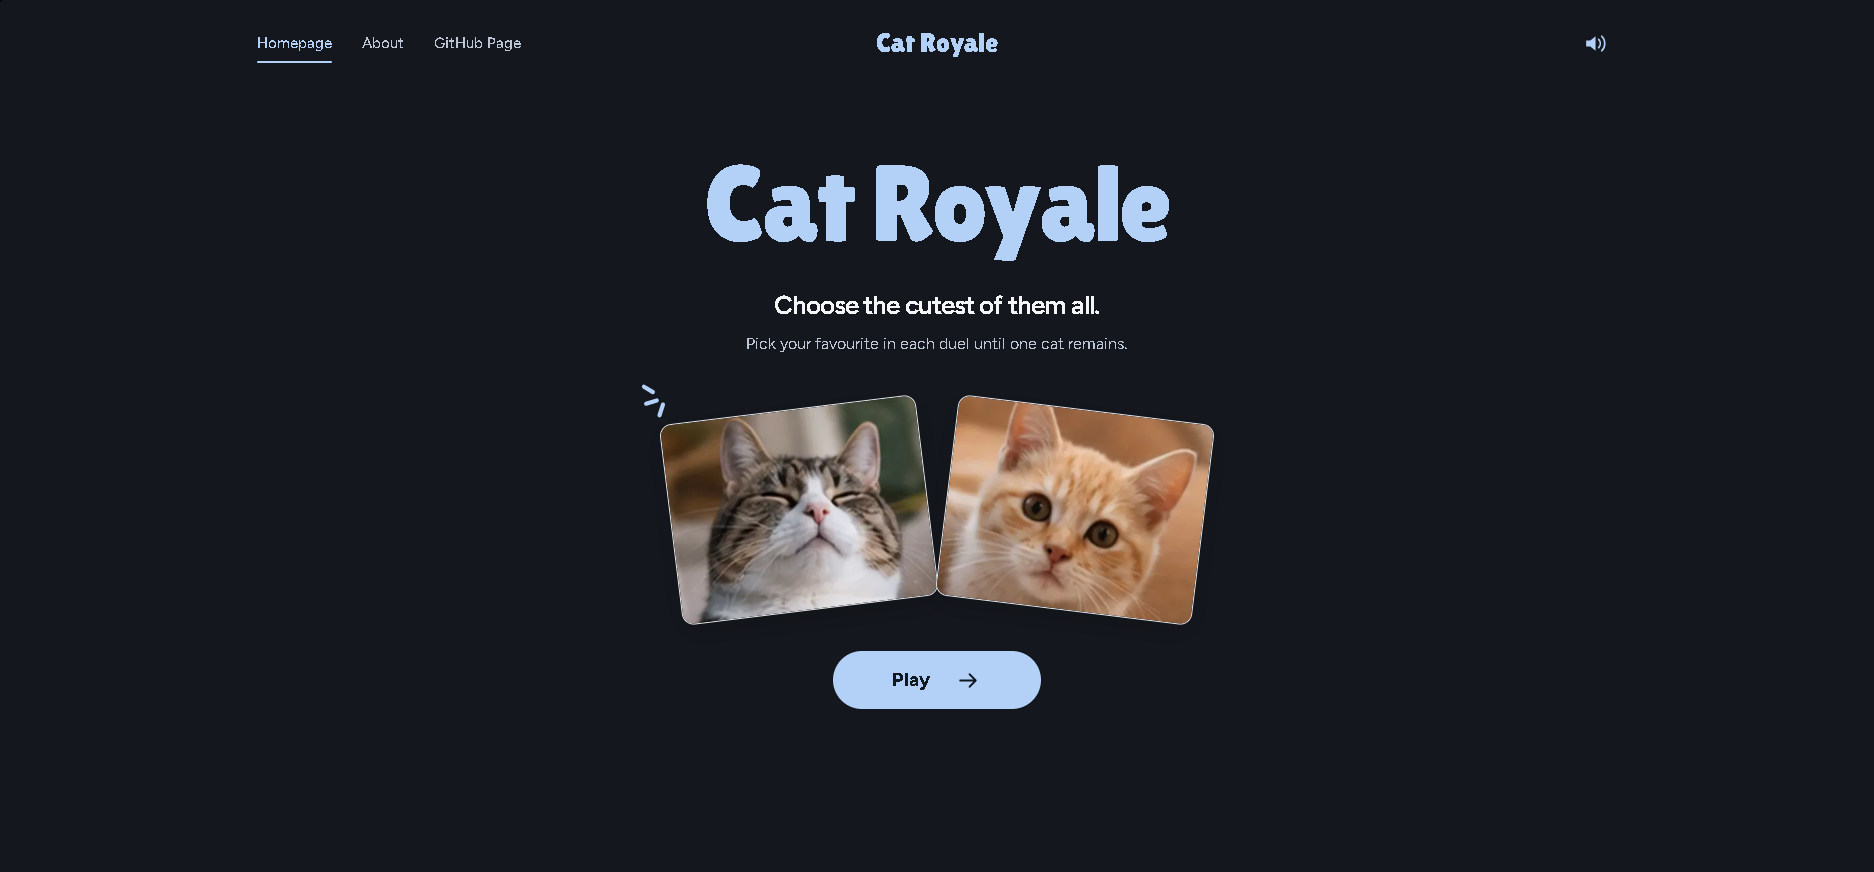
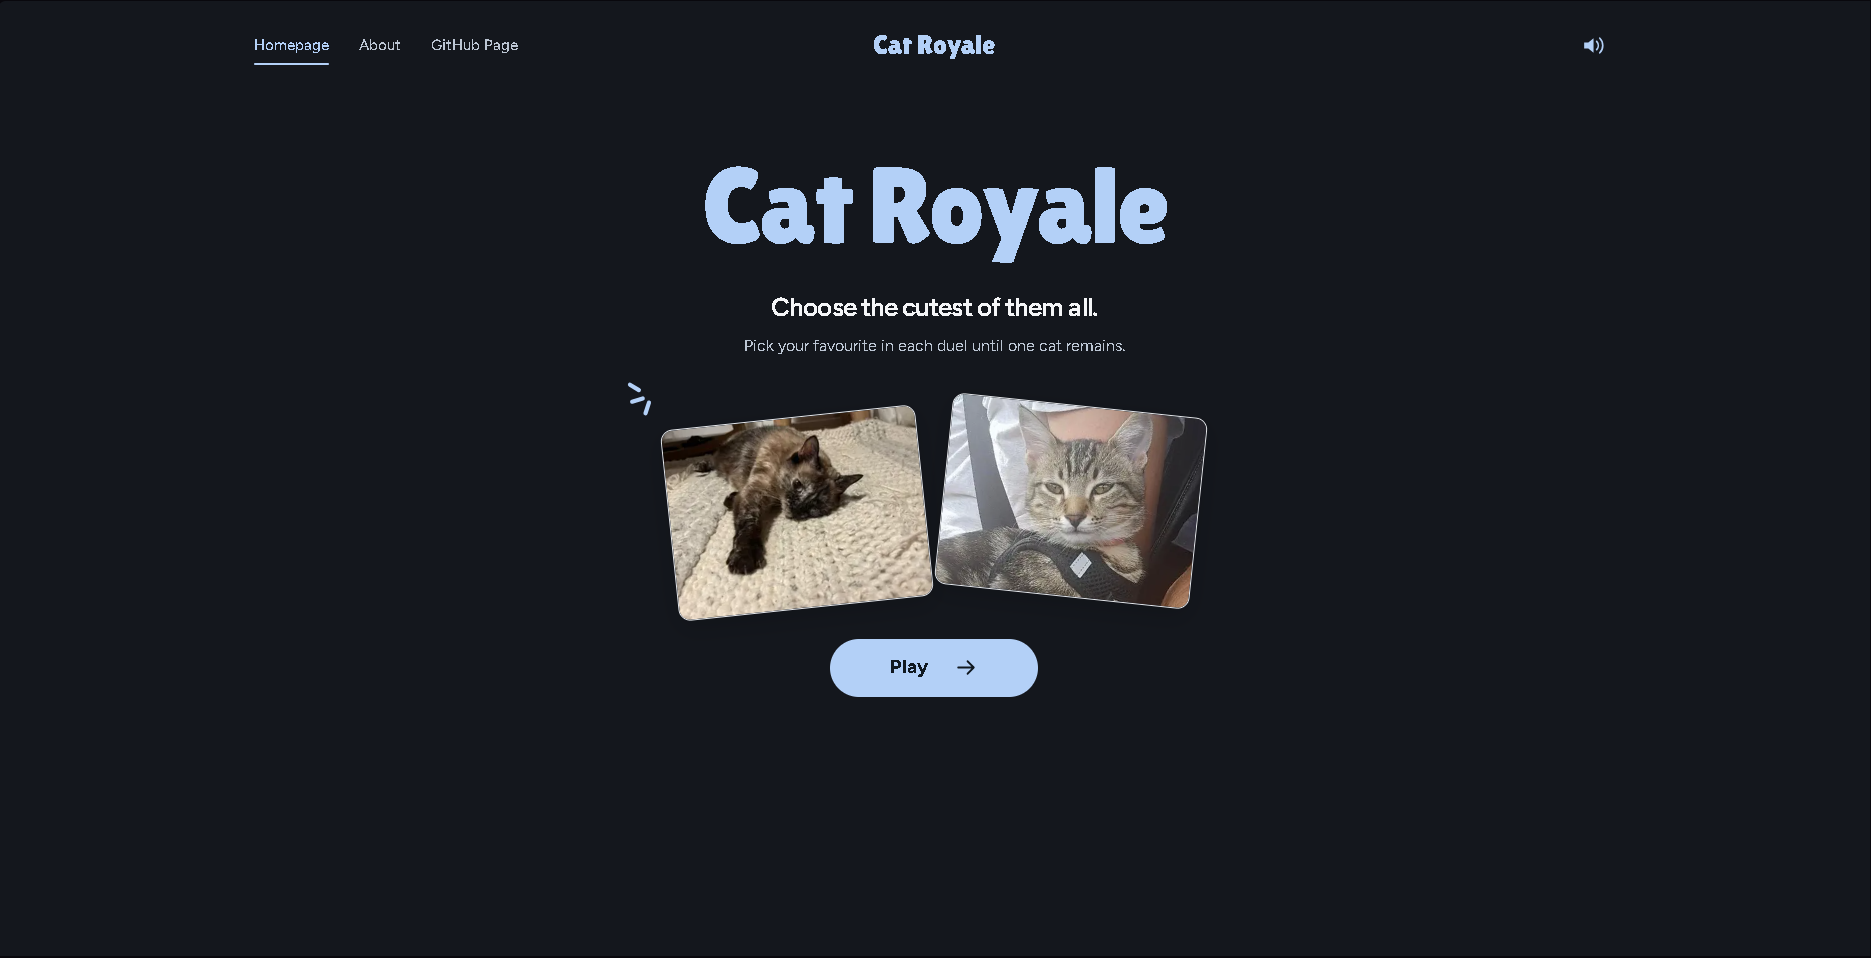
Small README fix

diff --git a/README.md b/README.md
@@ -8,25 +8,12 @@ This is my first full web development project, built as a way to learn how a mod
 
 Cat Royale works great but is still under development.
 
-This is the features i want to add to the project in the future:
+These are the features i want to add to the project in the future:
 
 *  Add user accounts
 *  Save winning cat
 *  Favourite Cats
 *  Share the winning cat's image
-
-### Technologies
-
-Currently using:
-
-* Next.js
-* React
-* TypeScript
-* Tailwind CSS
-* Git
-* GitHub
-
-More technologies will be added as I develop this website.
 
 ### What I'm Learning
 
